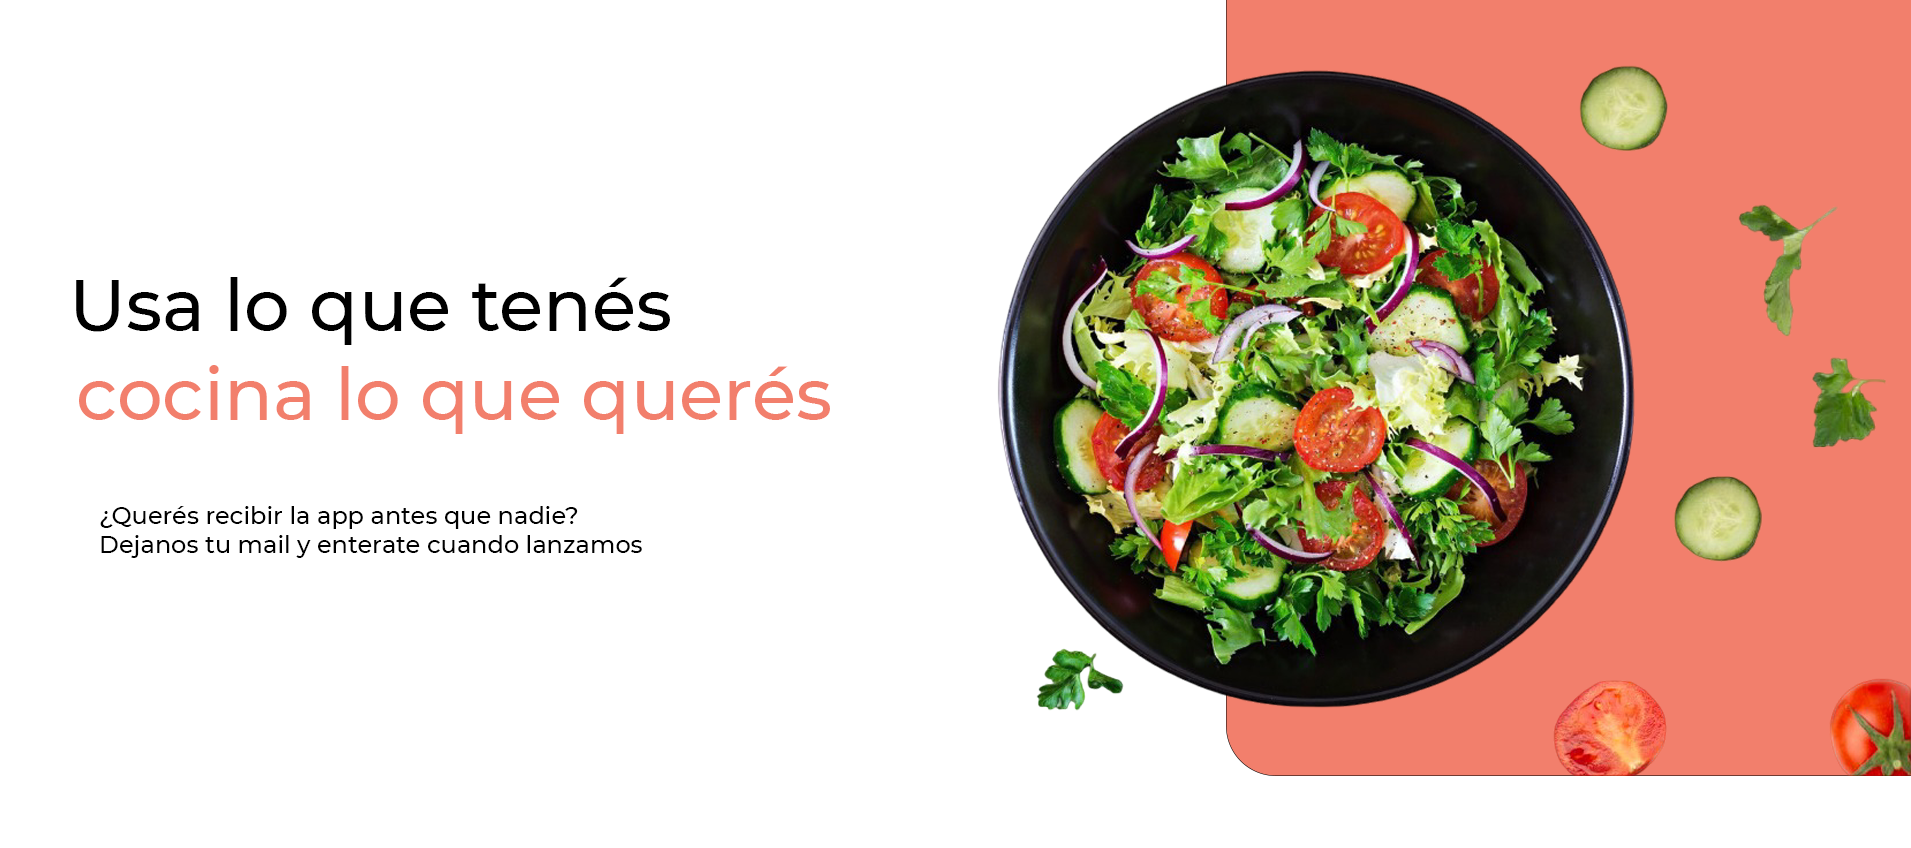
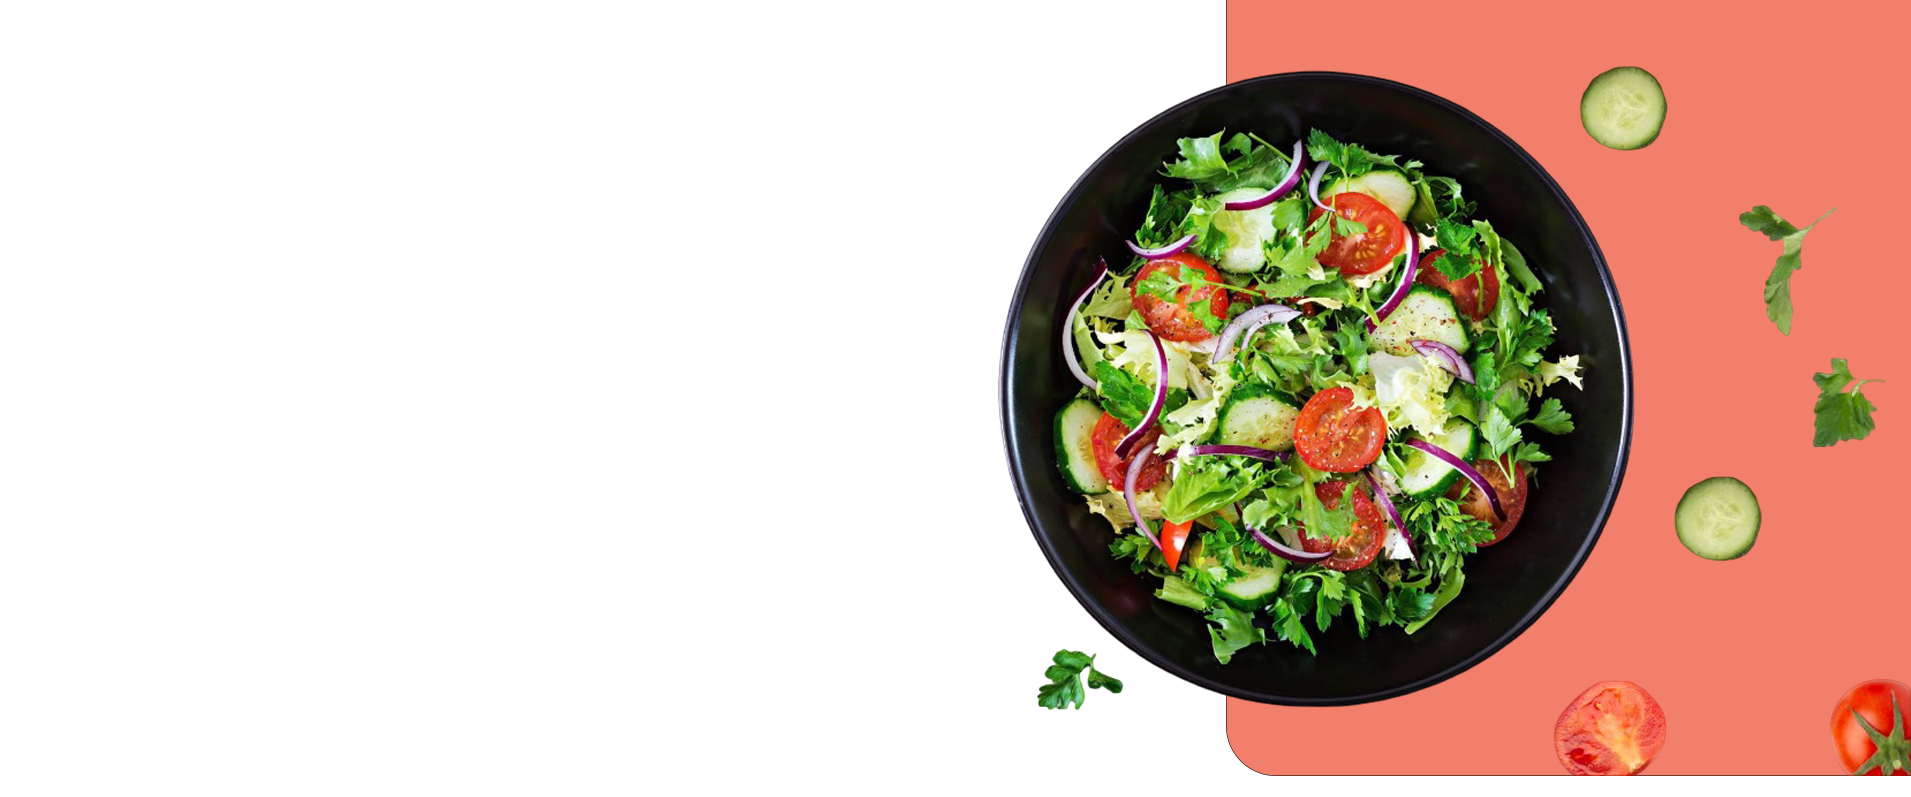
mas avances

diff --git a/src/components/Beneficios.jsx b/src/components/Beneficios.jsx
@@ -1,71 +1,37 @@
+import CardBeneficios from "./CardBeneficios";
 export default function Beneficios() {
-    return (
-      <section className="py-20 bg-purple-200 w-full">
-        <div className="container mx-auto px-4">
-          {/* Contenedor con grid y flexbox */}
-          <div className="grid grid-cols-1 sm:grid-cols-2 lg:grid-cols-4 gap-8">
-            {/* Primer beneficio */}
-            <div className="max-w-sm bg-white rounded-4xl overflow-hidden shadow-xl">
-              <div className="px-6 py-4">
-                <div className="font-bold text-xl mb-2">¿Qué cocino hoy?</div>
-                <p className="text-gray-700 text-base">
-                  Recetas que usan lo que ya tenés
-                </p>
-              </div>
-              <img
-                className="w-full h-80 object-cover rounded-lg"
-                src="/heladera confundida.jpg"
-                alt="¿Qué cocino hoy?"
-              />
-            </div>
-  
-            {/* Segundo beneficio */}
-            <div className="max-w-sm bg-white rounded-4xl overflow-hidden shadow-xl">
-              <div className="px-6 py-4">
-                <div className="font-bold text-xl mb-2">Usá lo que ya tenés</div>
-                <p className="text-gray-700 text-base">
-                  Subí una foto, la IA hace el resto
-                </p>
-              </div>
-              <img
-                className="w-full h-80 object-cover rounded-lg"
-                src="/escaneo de heladera.webp"
-                alt="Usá lo que ya tenés"
-              />
-            </div>
-  
-            {/* Tercer beneficio */}
-            <div className="max-w-sm bg-white rounded-4xl overflow-hidden shadow-xl">
-              <div className="px-6 py-4">
-                <div className="font-bold text-xl mb-2">Menos desperdicio</div>
-                <p className="text-gray-700 text-base">
-                  Aprovechá al máximo tu despensa
-                </p>
-              </div>
-              <img
-                className="w-full h-80 object-cover rounded-lg"
-                src="/plato.jpeg"
-                alt="Menos desperdicio"
-              />
-            </div>
-  
-            {/* Cuarto beneficio */}
-            <div className="max-w-sm bg-white rounded-4xl overflow-hidden shadow-xl">
-              <div className="px-6 py-4">
-                <div className="font-bold text-xl mb-2">Cociná sin estrés</div>
-                <p className="text-gray-700 text-base">
-                  Rápido, rico y sin vueltas
-                </p>
-              </div>
-              <img
-                className="w-full h-80 object-cover rounded-lg"
-                src="/comiendo.jpg"
-                alt="Cociná sin estrés"
-              />
-            </div>
-          </div>
+  return (
+    <section className="p-15 bg-purple-200 w-full">
+      <div className="container mx-auto ">
+        <h2 className="text-center text-5xl  mb-8 font-bold">Beneficios</h2>
+        {/* Contenedor con grid res ponsivo */}
+        <div className="grid grid-cols-1 sm:grid-cols-2 lg:grid-cols-4 gap-8"> 
+          <CardBeneficios 
+            img="/heladera confundida.jpg"
+            imgAlt="Find Freezer" 
+            title="¿Qué cocino hoy?"
+            subtit="Recetas que usan lo que ya tenés" 
+          />
+          <CardBeneficios 
+            img="/escaneo de heladera.webp"
+            imgAlt="Scan" 
+            title="Usá lo que ya tenés"
+            subtit="Subí una foto, la IA hace el resto" 
+          />
+          <CardBeneficios 
+            img="/plato.jpeg"
+            imgAlt="dish" 
+            title="Menos desperdicio"
+            subtit="Aprovechá al máximo tu despensa" 
+          />
+          <CardBeneficios 
+            img="/comiendo.jpg"
+            imgAlt="dish" 
+            title="Cociná sin estrés"
+            subtit="Rápido, rico y sin vueltas" 
+          /> 
         </div>
-      </section>
-    );
-  }
-  
+      </div>
+    </section>
+  );
+}

diff --git a/src/components/PrimerSeccion.jsx b/src/components/PrimerSeccion.jsx
@@ -1,17 +1,23 @@
 export default function PrimerSeccion() {
   return (
-    <div className="relative w-full"> 
+    <div className="relative w-full h-[60vh] md:h-[80vh] lg:h-screen">
       <img
-        src="/imagen_landing_principal.png" // Ruta de la imagen en la carpeta /public
+        src="/imagen_landing_principal.png"
         alt="Comida"
-        className="w-full h-full object-cover" // Asegura que la imagen ocupe toda la pantalla
+        className="w-full h-full object-cover"
       />
-      <div className="absolute top-14/20 left-1/4 transform -translate-x-1/4 -translate-y-1/2"> 
-  <div className="flex items-center  border-teal-500 py-2">
-    <button className="flex-shrink-0 bg-red-300 hover:bg-red-400 border-red-300 hover:border-red-400 text-sm border-4 text-white py-1 px-2 rounded" type="button">
-      Hora de cocinar!
-    </button> 
-  </div> 
+      <div className="absolute inset-0 flex items-center">
+        <div className="text-left pl-20  max-w-3xl">
+          <h1 className="text-3xl md:text-7xl font-bold text-gray-800 leading-tight">
+            Usá lo que tenés cociná lo que querés
+          </h1>
+          <p className="mt-4 text-lg md:text-2xl text-gray-700">
+            Cargá fotos de tus productos o ingresalos manualmente y te mostramos recetas que podés hacer con lo que tenés.
+          </p>
+          <button className="mt-6 bg-red-500 hover:bg-red-600 text-white text-lg font-semibold py-3 px-6 rounded-lg shadow-lg transition">
+            ¡Hora de cocinar!
+          </button>
+        </div>
       </div>
     </div>
   );

diff --git a/src/components/SobrePlanicocina.jsx b/src/components/SobrePlanicocina.jsx
@@ -6,8 +6,8 @@ export default function SobrePlanicocina() {
       <div className={styles.container}>
         <img src="/comida.png" alt="Comida casera" className={styles.image} />
         <div className={styles.textContent}>
-          <h2>Sobre Planicocina</h2>
-          <p>
+        <h2 className="text-center text-5xl m-5 mb-8 font-bold">Sobre Planicocina</h2>
+          <p className="text-center  m-5 mb-8">
             Somos una aplicación desarrollada por estudiantes de la Universidad Nacional de La Matanza
             con el objetivo de ayudarte a aprovechar mejor tus alimentos, ahorrar tiempo y disfrutar
             de la comida casera sin complicarte.

diff --git a/src/components/CardBeneficios.jsx b/src/components/CardBeneficios.jsx
@@ -1,0 +1,16 @@
+export default function CardBeneficios({ img, imgAlt, title, subtit }) {
+    return (
+      <div className="bg-white rounded-2xl overflow-hidden shadow-lg transform transition-transform hover:scale-105">
+        <div className="m-4" >
+          <div className="mt-1 font-bold text-gray-700">
+            <a  className="hover:underline">
+              {title}
+            </a>
+          </div>
+          <div className="mt-2 text-sm text-gray-600">{subtit}</div>
+          
+        </div>
+        <img className="rounded-lg" src={img} alt={imgAlt} />
+      </div>
+    );
+  }
